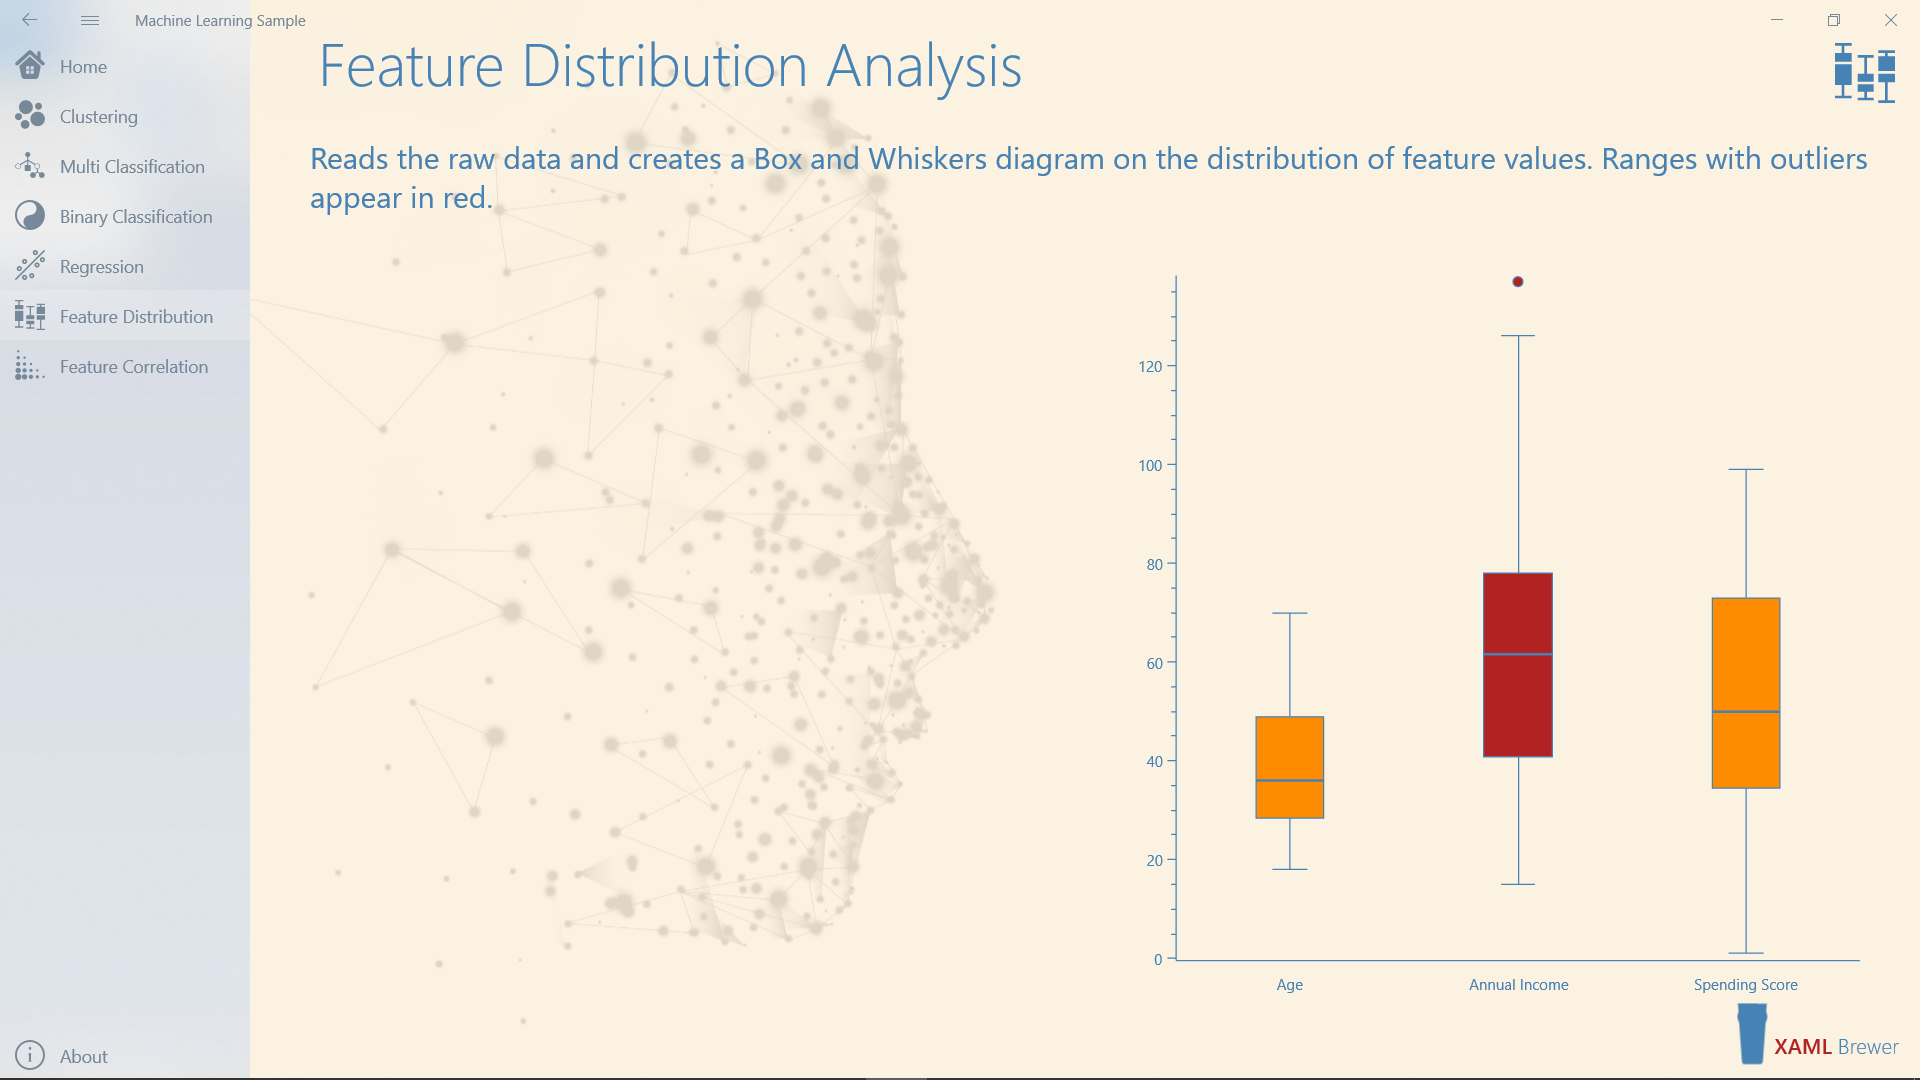
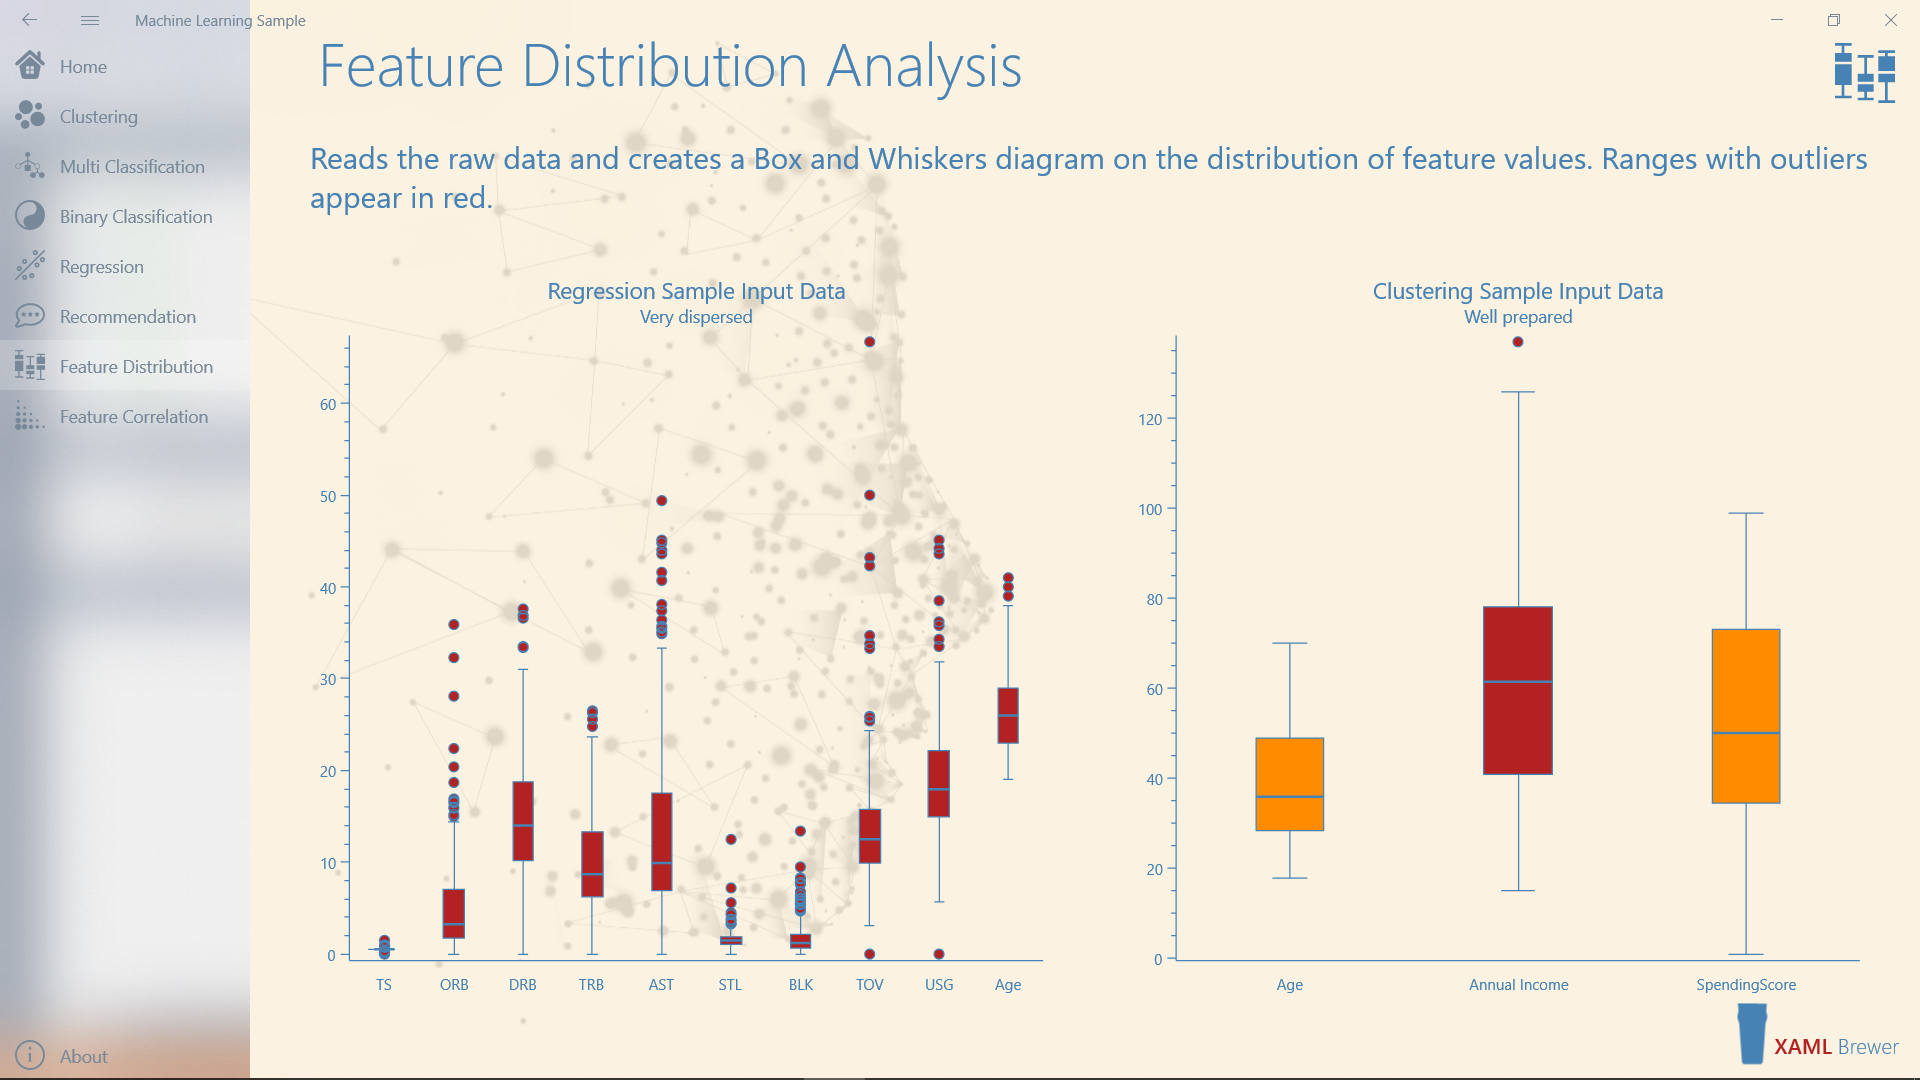
Extended the BoxPlot page with a second sample.

diff --git a/XamlBrewer.Uwp.MachineLearningSample/Views/BoxPlotPage.xaml b/XamlBrewer.Uwp.MachineLearningSample/Views/BoxPlotPage.xaml
@@ -47,7 +47,12 @@
                 <ColumnDefinition Width="*" />
                 <ColumnDefinition Width="*" />
             </Grid.ColumnDefinitions>
-            <oxy:PlotView x:Name="Diagram"
+            <oxy:PlotView x:Name="RegressionDiagram"
+                          Background="Transparent"
+                          BorderThickness="0"
+                          Margin="0 0 40 60"
+                          Grid.Column="0" />
+            <oxy:PlotView x:Name="ClusterDiagram"
                           Background="Transparent"
                           BorderThickness="0"
                           Margin="0 0 40 60"

diff --git a/XamlBrewer.Uwp.MachineLearningSample/Views/RegressionPage.xaml b/XamlBrewer.Uwp.MachineLearningSample/Views/RegressionPage.xaml
@@ -6,7 +6,8 @@
       xmlns:lottie="using:LottieUWP"
       xmlns:oxy="using:OxyPlot.Windows"
       mc:Ignorable="d"
-      Foreground="{StaticResource PageForegroundBrush}">
+      Foreground="{StaticResource PageForegroundBrush}"
+      FontFamily="Segoe UI">
 
     <Grid Background="Transparent"
           Padding="48 34 0 0">

diff --git a/XamlBrewer.Uwp.MachineLearningSample/Views/BoxPlotPage.xaml.cs b/XamlBrewer.Uwp.MachineLearningSample/Views/BoxPlotPage.xaml.cs
@@ -1,5 +1,4 @@
-using Mvvm.Services;
-using OxyPlot;
+using OxyPlot;
 using OxyPlot.Axes;
 using OxyPlot.Series;
 using System.Collections.Generic;
@@ -23,30 +22,105 @@ namespace XamlBrewer.Uwp.MachineLearningSample
 
         private async void Page_Loaded(object sender, Windows.UI.Xaml.RoutedEventArgs e)
         {
+            // Left: unprepared data.
+
             // Prepare diagram
-            var plotModel = PrepareDiagram();
+            var plotModel = PrepareDiagram(new[]
+                    {
+                        "TS",
+                        "ORB",
+                        "DRB",
+                        "TRB",
+                        "AST",
+                        "STL",
+                        "BLK",
+                        "TOV",
+                        "USG",
+                        "Age"
+                    });
+
+            plotModel.Title = "Regression Sample Input Data";
+            plotModel.Subtitle = "Very dispersed";
 
             // Read data
-            var trainingDataPath = await MlDotNet.FilePath(@"ms-appx:///Data/Mall_Customers.csv");
-            var data = await ViewModel.Load(trainingDataPath);
+            var data = await ViewModel.LoadRegressionData();
 
             // Populate diagram
-            var ages = new List<double>();
-            var incomes = new List<double>();
-            var scores = new List<double>();
+            var ts = new List<double>();
+            var orb = new List<double>();
+            var drb = new List<double>();
+            var trb = new List<double>();
+            var ast = new List<double>();
+            var stl = new List<double>();
+            var blk = new List<double>();
+            var tov = new List<double>();
+            var usg = new List<double>();
+            var age = new List<double>();
+
             foreach (var value in data)
             {
-                ages.Add(value.Age);
-                incomes.Add(value.AnnualIncome);
-                scores.Add(value.SpendingScore);
+                ts.Add(value.Ts);
+                orb.Add(value.Orb);
+                drb.Add(value.Drb);
+                trb.Add(value.Trb);
+                ast.Add(value.Ast);
+                stl.Add(value.Stl);
+                blk.Add(value.Blk);
+                tov.Add(value.Tov);
+                usg.Add(value.Usg);
+                age.Add(value.Age);
             }
 
-            AddItem(plotModel, ages, 0);
-            AddItem(plotModel, incomes, 1);
-            AddItem(plotModel, scores, 2);
+            AddItem(plotModel, ts, 0);
+            AddItem(plotModel, orb, 1);
+            AddItem(plotModel, drb, 2);
+            AddItem(plotModel, trb, 3);
+            AddItem(plotModel, ast, 4);
+            AddItem(plotModel, stl, 5);
+            AddItem(plotModel, blk, 6);
+            AddItem(plotModel, tov, 7);
+            AddItem(plotModel, usg, 8);
+            AddItem(plotModel, age, 9);
 
             // Update diagram
-            Diagram.InvalidatePlot();
+            RegressionDiagram.Model = plotModel;
+            RegressionDiagram.InvalidatePlot();
+
+            // Right: prepared data.
+
+            // Prepare diagram
+            plotModel = PrepareDiagram(new[]
+                    {
+                        "Age",
+                        "Annual Income",
+                        "SpendingScore"
+                    });
+
+            plotModel.Title = "Clustering Sample Input Data";
+            plotModel.Subtitle = "Well prepared";
+
+            // Read data
+            var clusteringData = await ViewModel.LoadClusteringData();
+
+            // Populate diagram
+            var age_c = new List<double>();
+            var income = new List<double>();
+            var score = new List<double>();
+
+            foreach (var value in clusteringData)
+            {
+                age_c.Add(value.Age);
+                income.Add(value.AnnualIncome);
+                score.Add(value.SpendingScore);
+            }
+
+            AddItem(plotModel, age_c, 0);
+            AddItem(plotModel, income, 1);
+            AddItem(plotModel, score, 2);
+
+            // Update diagram
+            ClusterDiagram.Model = plotModel;
+            ClusterDiagram.InvalidatePlot();
         }
 
         private void AddItem(PlotModel plotModel, List<double> values, int slot)
@@ -83,7 +157,7 @@ namespace XamlBrewer.Uwp.MachineLearningSample
             }
         }
 
-        private PlotModel PrepareDiagram()
+        private PlotModel PrepareDiagram(string[] categories)
         {
             var foreground = OxyColors.SteelBlue;
 
@@ -93,6 +167,7 @@ namespace XamlBrewer.Uwp.MachineLearningSample
                 PlotAreaBorderColor = foreground,
                 TextColor = foreground,
                 TitleColor = foreground,
+                TitleFontWeight = 2,
                 SubtitleColor = foreground
             };
 
@@ -122,18 +197,11 @@ namespace XamlBrewer.Uwp.MachineLearningSample
             plotModel.Axes.Add(new CategoryAxis
             {
                 Position = AxisPosition.Bottom,
-                ItemsSource = new[]
-                    {
-                        "Age",
-                        "Annual Income",
-                        "Spending Score"
-                    },
+                ItemsSource = categories,
                 TextColor = foreground,
                 TicklineColor = OxyColors.Transparent,
                 TitleColor = foreground
             });
-
-            Diagram.Model = plotModel;
 
             return plotModel;
         }

diff --git a/XamlBrewer.Uwp.MachineLearningSample/ViewModels/BoxPlotPageViewModel.cs b/XamlBrewer.Uwp.MachineLearningSample/ViewModels/BoxPlotPageViewModel.cs
@@ -1,6 +1,7 @@
 using Microsoft.ML.Runtime.Api;
 using Microsoft.ML.Runtime.Data;
 using Mvvm;
+using Mvvm.Services;
 using System.Collections.Generic;
 using System.Threading.Tasks;
 using XamlBrewer.Uwp.MachineLearningSample.Models;
@@ -11,10 +12,42 @@ namespace XamlBrewer.Uwp.MachineLearningSample.ViewModels
     {
         private LocalEnvironment _mlContext = new LocalEnvironment(seed: null); // v0.6;
 
-        public Task<IEnumerable<ClusteringRawData>> Load(string trainingDataPath)
+        public Task<IEnumerable<RegressionPercentage>> LoadRegressionData()
         {
-            return Task.Run(() =>
+            return Task.Run(async() =>
             {
+                var trainingDataPath = await MlDotNet.FilePath(@"ms-appx:///Data/2017-18_NBA_salary.csv");
+                var reader = new TextLoader(_mlContext,
+                                            new TextLoader.Arguments()
+                                            {
+                                                Separator = ",",
+                                                HasHeader = true,
+                                                Column = new[]
+                                                    {
+                                                    new TextLoader.Column("Ts", DataKind.R4, 9),
+                                                    new TextLoader.Column("Orb", DataKind.R4, 12),
+                                                    new TextLoader.Column("Drb", DataKind.R4, 13),
+                                                    new TextLoader.Column("Trb", DataKind.R4, 14),
+                                                    new TextLoader.Column("Ast", DataKind.R4, 15),
+                                                    new TextLoader.Column("Stl", DataKind.R4, 16),
+                                                    new TextLoader.Column("Blk", DataKind.R4, 17),
+                                                    new TextLoader.Column("Tov", DataKind.R4, 18),
+                                                    new TextLoader.Column("Usg", DataKind.R4, 19),
+                                                    new TextLoader.Column("Age", DataKind.R4, 4)
+                                                    }
+                                            });
+
+                var file = _mlContext.OpenInputFile(trainingDataPath);
+                var src = new FileHandleSource(file);
+                return reader.Read(src).AsEnumerable<RegressionPercentage>(_mlContext, false);
+            });
+        }
+
+        public Task<IEnumerable<ClusteringRawData>> LoadClusteringData()
+        {
+            return Task.Run(async() =>
+            {
+                var trainingDataPath = await MlDotNet.FilePath(@"ms-appx:///Data/Mall_Customers.csv");
                 var reader = new TextLoader(_mlContext,
                                             new TextLoader.Arguments()
                                             {

diff --git a/XamlBrewer.Uwp.MachineLearningSample/Models/Regression/RegressionPercentage.cs b/XamlBrewer.Uwp.MachineLearningSample/Models/Regression/RegressionPercentage.cs
@@ -1,0 +1,37 @@
+using Microsoft.ML.Runtime.Api;
+
+namespace XamlBrewer.Uwp.MachineLearningSample.Models
+{
+    public class RegressionPercentage
+    {
+        [Column("9")]
+        public float Ts;
+
+        [Column("12")]
+        public float Orb;
+
+        [Column("13")]
+        public float Drb;
+
+        [Column("14")]
+        public float Trb;
+
+        [Column("15")]
+        public float Ast;
+
+        [Column("16")]
+        public float Stl;
+
+        [Column("17")]
+        public float Blk;
+
+        [Column("18")]
+        public float Tov;
+
+        [Column("19")]
+        public float Usg;
+
+        [Column("4")]
+        public float Age;
+    }
+}
